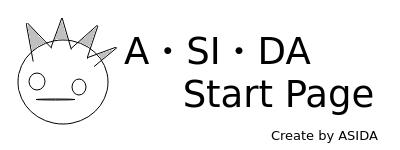
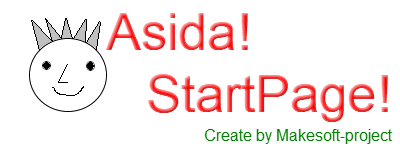
リニューアルに伴うロゴ等の変更
リニューアルするにあたり機能追加と、ロゴ変更を行いました

diff --git a/index.htm b/index.htm
@@ -4,12 +4,13 @@
     <meta charset="UTF-8">
     <meta http-equiv="X-UA-Compatible" content="IE=edge">
     <meta name="viewport" content="width=device-width, initial-scale=1.0">
-    <title>あしだ　スタートページ</title>
+    <title>ASIDAスタートページ</title>
 </head>
 <body>
     <!--<p class="maintit">A・SI・DA Start Page</p>
     <p>Create by ASIDA</p>-->
     <img src="ASIDA.png">
+    <p>ASIDAスタートページは個人情報を一切取得しません。だから安心。（検索エンジンは別です）</p>
     <hr>
     <marquee><a class="maeoki" id="Mtext"></a></marquee>
     <hr>
@@ -42,7 +43,7 @@ function Sear(){
 }
 
 function MOJI(){
-    var kousin = "更新情報:2022/12/06 12:07 作成。 2022/12/06 13:18 改良。";
+    var kousin = "更新情報:2022/12/06 12:07 作成。 2023/05/17 0:28 リニューアル。";
     let Tnum = Math.floor(Math.random() * 4) + 1;
     switch (Tnum) {
         case 1 :
@@ -58,7 +59,7 @@ function MOJI(){
         break;
 
         case 4 :
-            var temoji = "作業お疲れ様です。たまには休憩はいかがでしょうか？ 　　　　　　　　　 あしだの家で。          ";
+            var temoji = "作業お疲れ様です。たまには休憩はいかがでしょうか？";
         break;
 
         default:
@@ -68,7 +69,16 @@ function MOJI(){
 document.getElementById('Mtext').innerText = ""+ temoji +""+ kousin +""
 } 
 </script>
-</body>
+        <hr>
+        <h1>作者のお気に入りのページ</h1>
+            <a href="https://betawiki.net/wiki/Main_Page">BetaWiki</a><br>
+            <a href="https://youtube.com">Youtube</a><br>
+
+        <hr>
+            <p>このサイトの元の<a href="https://github.com/makesoft-project/ASIDAStart">Githubリポジトリ</a></p>
+        <hr>
+            <p>makesoft-project 2022-2023</p>
+    </body>
 </html>
 <style>
     body{
